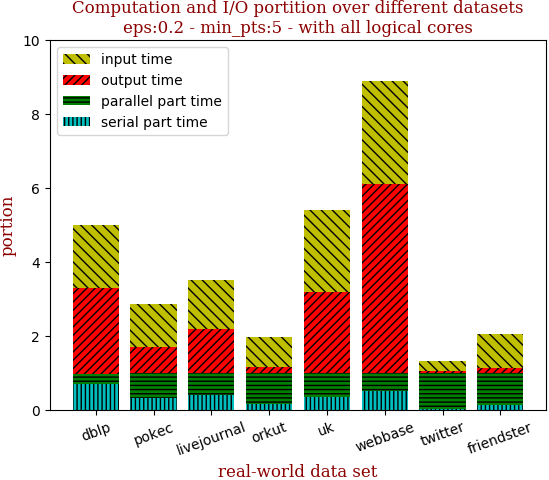
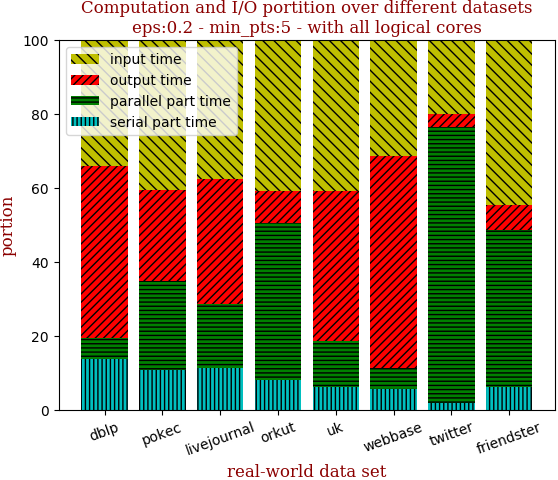
update portion graph

diff --git a/python_experiments/scalability_figure_overview.py b/python_experiments/scalability_figure_overview.py
@@ -22,7 +22,10 @@ def to_grouped_statistics(statistics):
 def to_portion_lst(info_lst, input_time_lst, output_time_lst):
     zipped_lst = map(lambda my_tuple: my_tuple[0] + [my_tuple[1], my_tuple[2]],
                      zip(info_lst, input_time_lst, output_time_lst))
-    zipped_lst = map(lambda lst: map(lambda ele: float(ele) / lst[0], lst), zipped_lst)
+    # print zipped_lst
+    # zipped_lst = map(lambda lst: map(lambda ele: float(ele) / lst[0], lst), zipped_lst)
+    zipped_lst = map(lambda lst: map(lambda ele: 100.0 * float(ele) / sum(lst[1:]), lst), zipped_lst)
+    print zipped_lst
 
     def transpose():
         return map(lambda idx: map(lambda lst: lst[idx], zipped_lst), range(len(zipped_lst[0])))
@@ -49,7 +52,7 @@ def display_comp_io_portion(portion_lst_lst, data_set_name_lst, title_append_txt
         cur_shape_color_idx += 1
 
     plt.xlabel('real-world data set', fontdict=font)
-    plt.ylim([0.0, 10.0])
+    plt.ylim([0.0, 100.0])
     plt.xticks(range(1, len(data_set_name_lst) + 1), data_set_name_lst, rotation=20)
     plt.ylabel('portion', fontdict=font)
     plt.legend(['input time', 'output time', 'parallel part time', 'serial part time'])
@@ -72,19 +75,20 @@ def illustrate_comp_io_portion(input_time_lst, output_time_lst, eps, min_pts):
 
         best_obj = sorted(time_info_dict.iteritems(), key=lambda pair: pair[1][total_time_tag])[0]
         best_thread_lst.append(best_obj[0])
-        print data_set
-        print best_obj[1], '\n', to_grouped_statistics(best_obj[1])
+        # print data_set
+        # print best_obj[1], '\n', to_grouped_statistics(best_obj[1])
         best_info_lst.append(to_grouped_statistics(best_obj[1]))
 
-        print time_info_dict[40], '\n', to_grouped_statistics(time_info_dict[40]), '\n'
+        # print time_info_dict[40], '\n', to_grouped_statistics(time_info_dict[40]), '\n'
         full_core_info_lst.append(to_grouped_statistics(time_info_dict[40]))
 
-    print 'best_thread_lst:', best_thread_lst, '\n', 'best_info_lst:', best_info_lst
-    print 'full_core_info_lst:', full_core_info_lst
-    print 'input_time_lst:', input_time_lst, '\n', 'output_time_lst:', output_time_lst
+    # print 'best_thread_lst:', best_thread_lst, '\n', 'best_info_lst:', best_info_lst
+    # print 'full_core_info_lst:', full_core_info_lst
+    # print 'input_time_lst:', input_time_lst, '\n', 'output_time_lst:', output_time_lst
 
     append_txt = ' - '.join(['eps:' + str(eps), 'min_pts:' + str(min_pts), 'with all logical cores'])
     zipped_lst = to_portion_lst(full_core_info_lst, input_time_lst, output_time_lst)
+    # print zipped_lst
     display_comp_io_portion(zipped_lst, map(lambda my_str: my_str.split('_')[-1], data_set_lst), append_txt)
 
     append_txt = ' - '.join(['eps:' + str(eps), 'min_pts:' + str(min_pts), 'with best logical thread num'])
@@ -146,10 +150,10 @@ def illustrate_speedup(pscan_serial_runtime_lst, pscan_plus_parallel_runtime_lst
                            zip(pscan_serial_runtime_lst, pscan_plus_best_parallel_runtime_lst))
     pscan_serial_runtime_lst = map(lambda num: str(num) + 's', pscan_serial_runtime_lst)
 
-    print 'dataset lst:', data_set_name_lst, '\n', 'edge_num lst:', edge_num_lst
-    print 'pscan serial runtime lst:', pscan_serial_runtime_lst
-    print 'speedup lst 40-core:', speedup_full_lst
-    print 'speedup lst best thread num:', speedup_best_lst
+    # print 'dataset lst:', data_set_name_lst, '\n', 'edge_num lst:', edge_num_lst
+    # print 'pscan serial runtime lst:', pscan_serial_runtime_lst
+    # print 'speedup lst 40-core:', speedup_full_lst
+    # print 'speedup lst best thread num:', speedup_best_lst
     print 'best performance thread_num_lst:', best_thread_lst, '\n'
 
     rows = []
